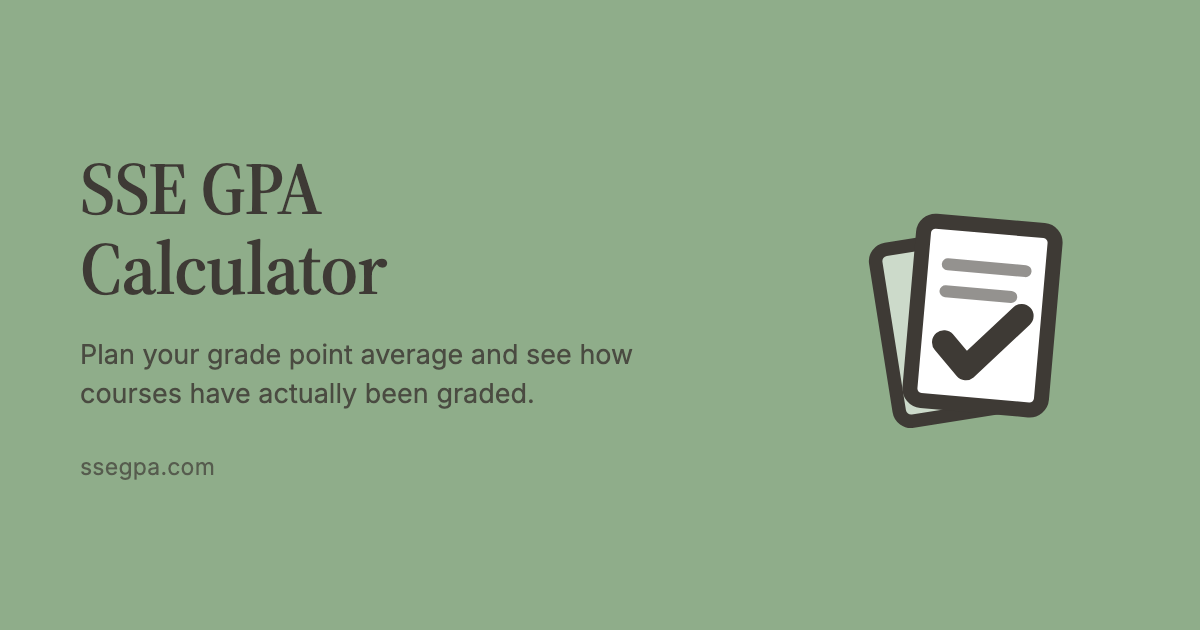
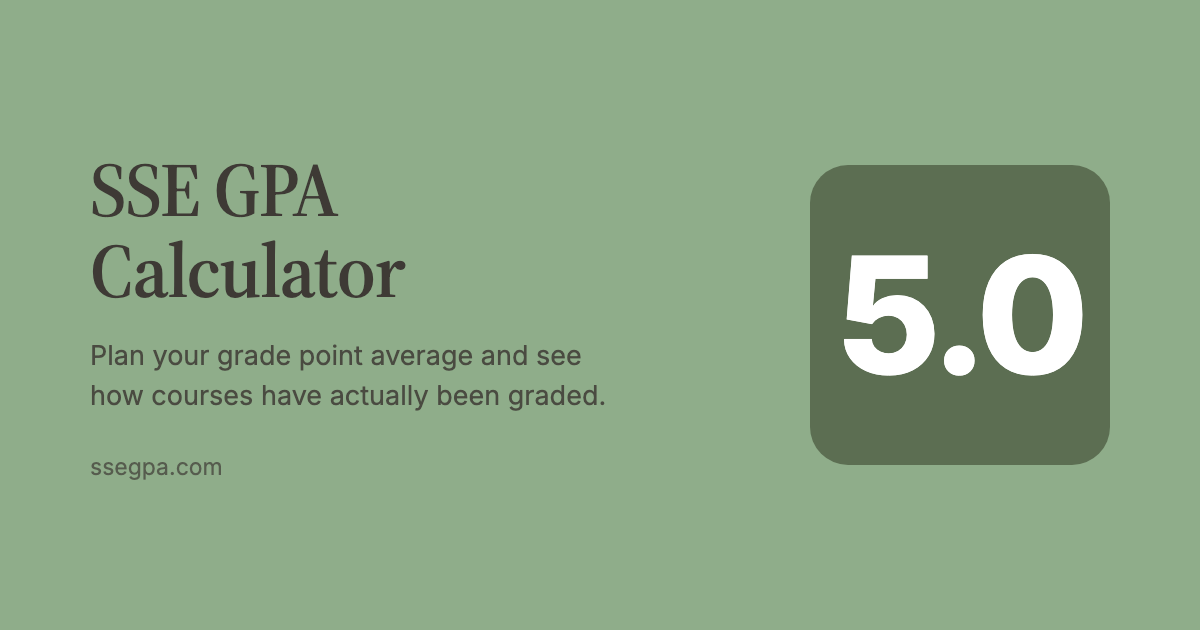
Put the 5.0 mark on the social card too
The favicon, touch icon and 512 icon all carry the 5.0 tile, but the image
Google and the social platforms show still had the papers illustration from
before the mark changed — so a search result and a shared link disagreed with
the browser tab.

The card now carries the same olive 5.0 tile as the icon. Added 96 and 192
pixel PNG icons alongside the .ico, which is the square multiple of 48 Google
asks for.

diff --git a/index.html b/index.html
@@ -11,6 +11,8 @@
     <!-- SVG for browsers that take it, .ico as the fallback crawlers ask for -->
     <link rel="icon" href="/icon.svg" type="image/svg+xml" />
     <link rel="icon" href="/favicon.ico" sizes="any" />
+    <link rel="icon" type="image/png" sizes="96x96" href="/icon-96.png" />
+    <link rel="icon" type="image/png" sizes="192x192" href="/icon-192.png" />
     <link rel="apple-touch-icon" href="/apple-touch-icon.png" />
 
     <!-- Absolute URLs: crawlers do not resolve relative ones reliably -->
